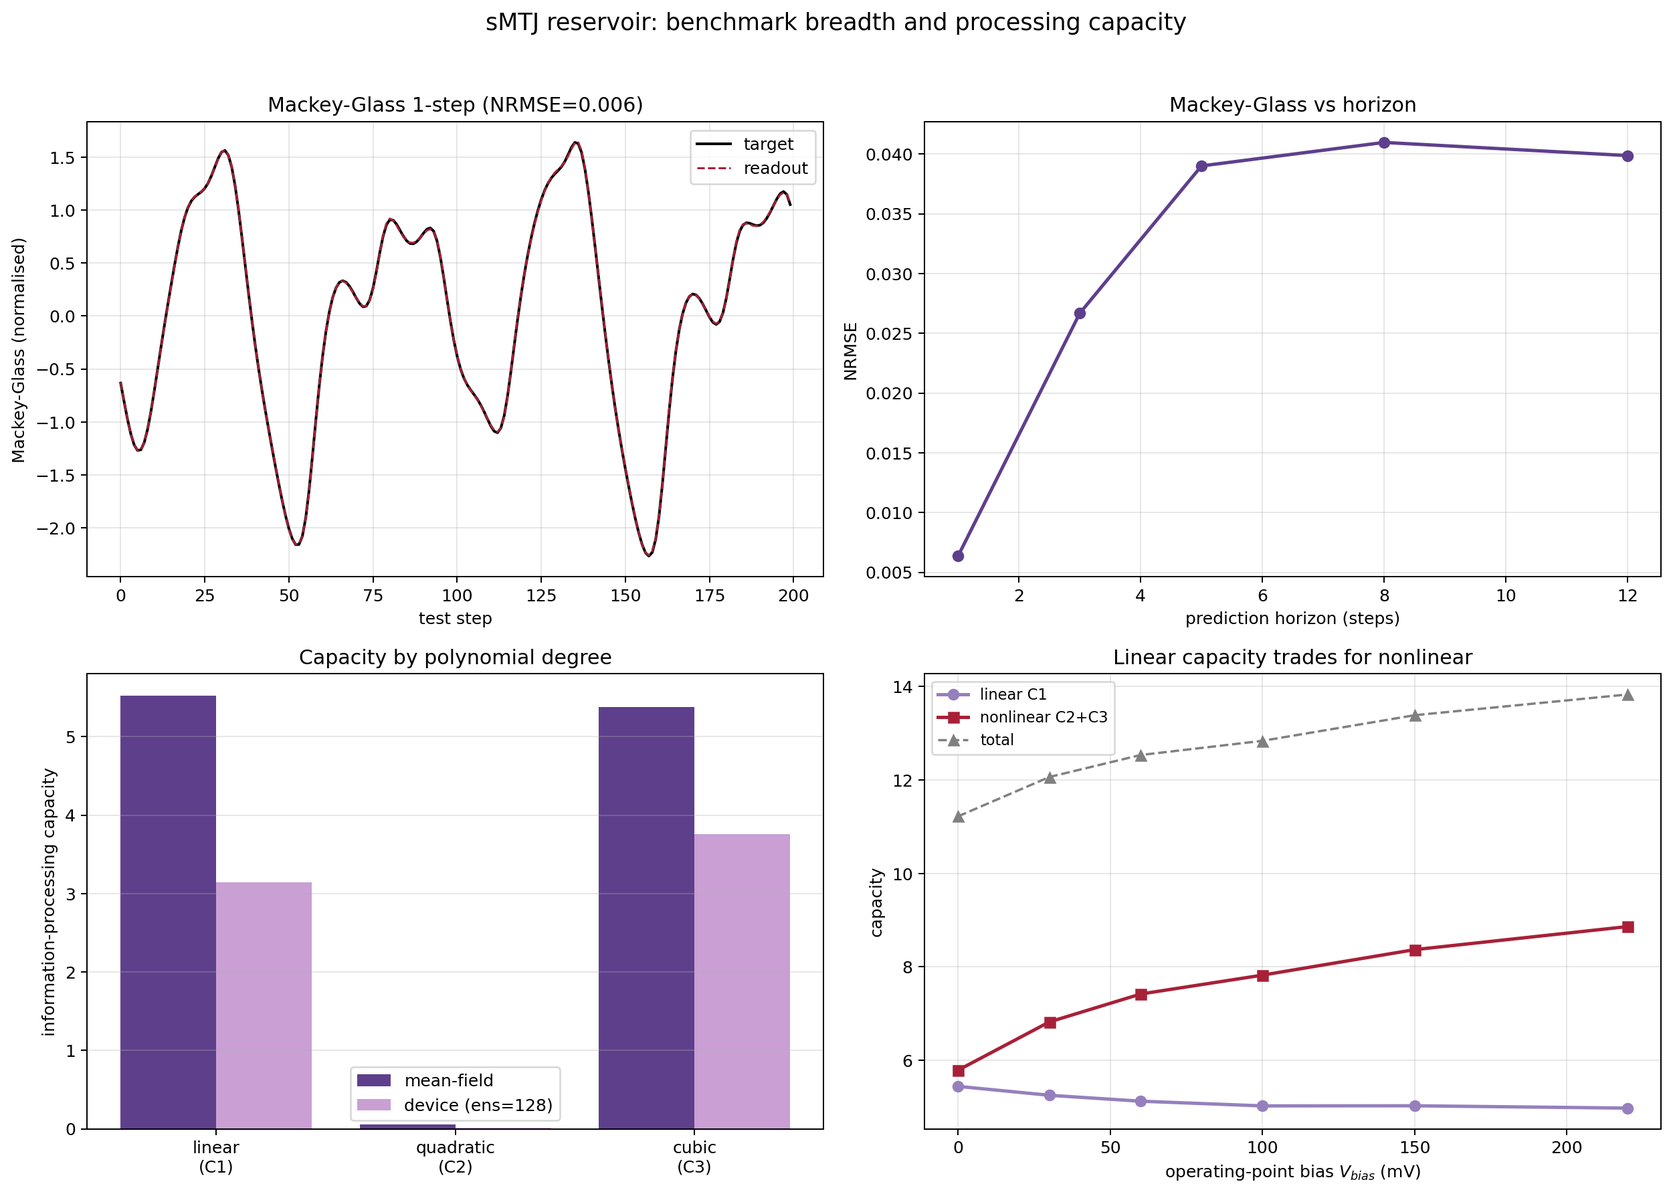
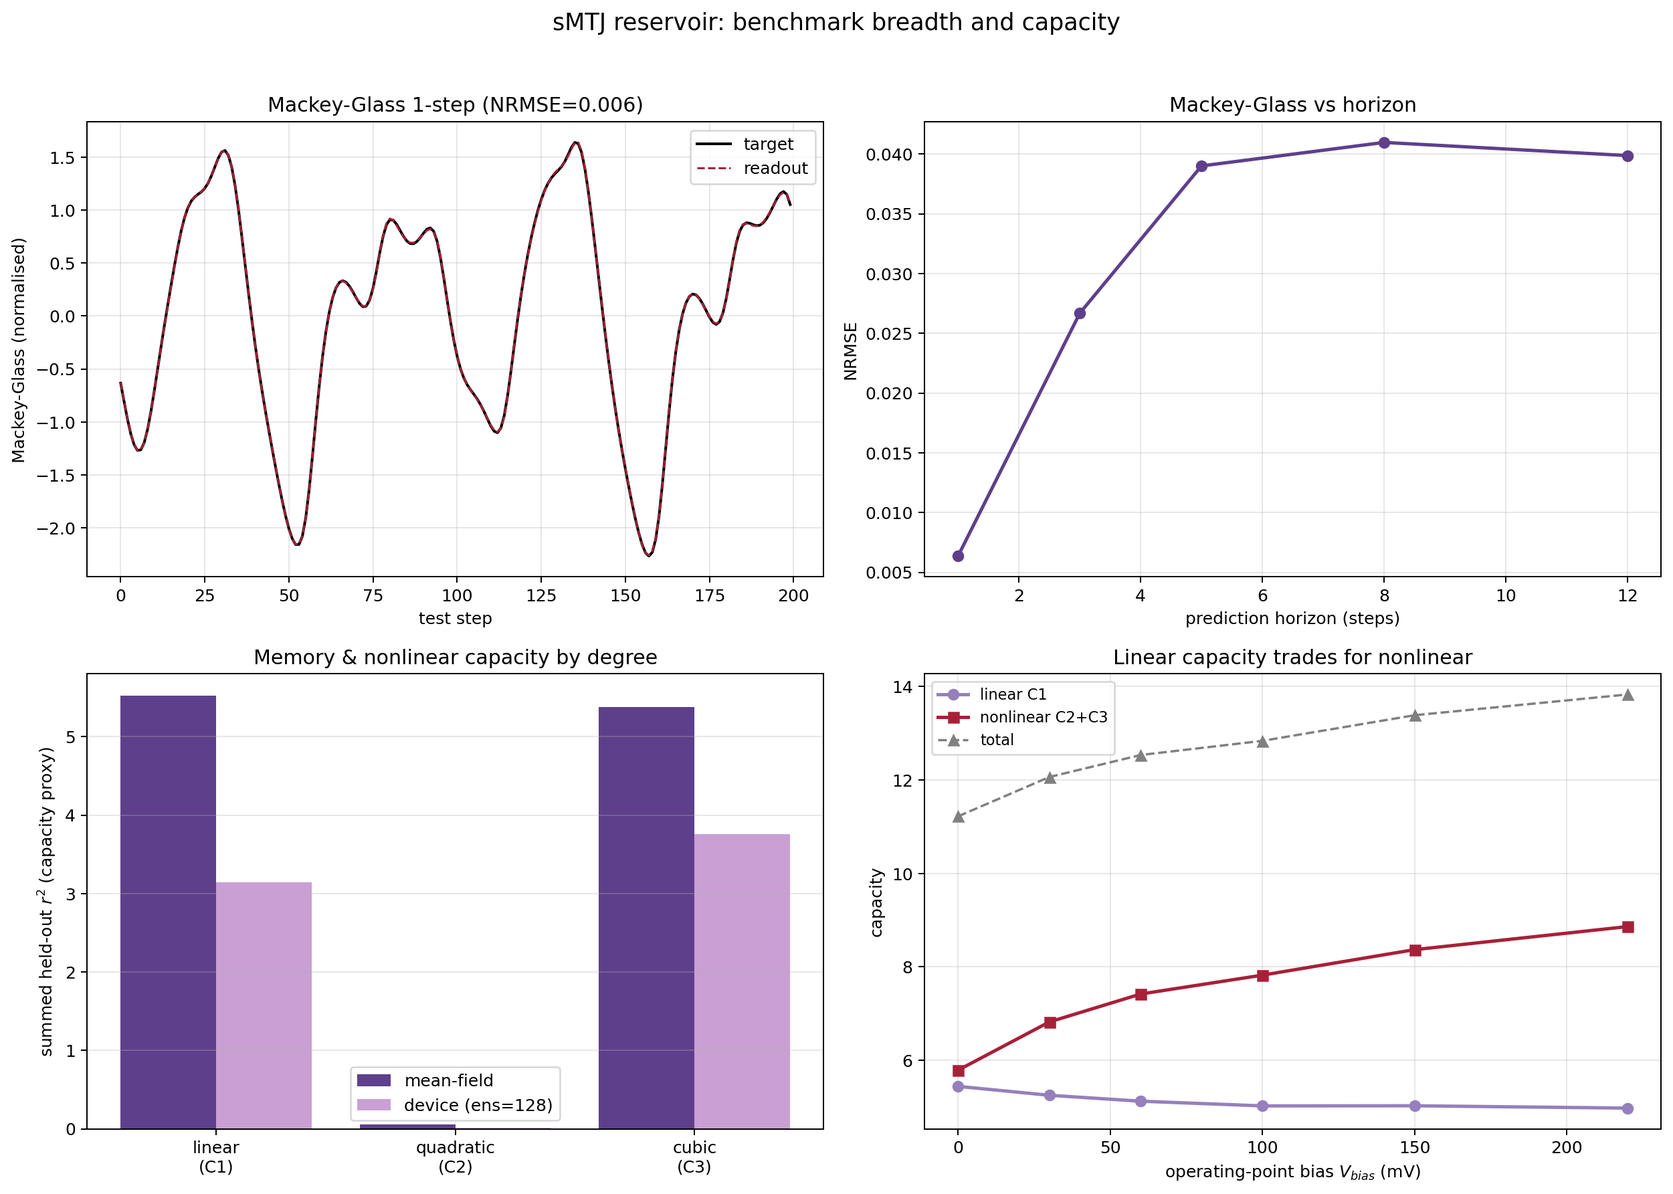
sim eval (②③): fix verified findings + ground 130nm/extraction in article (①⑤)
Multi-agent evaluation of smtj_pbnn_sim vs comparable-simulator norms
(NeuroSim/aihwkit/CrossSim + p-bit/RC literature; 6 dimensions, adversarial
verification). Overall: sound core, honest hygiene, contained gaps. Applied the
verified, low-risk fixes and reran/relabelled affected figures (style unchanged).

Fixes (errata §S ledger):
- DPM-01 (high): delta-mode variation recentred onto the calibrated operating
  point (V_th_nom,V_T_nom); Delta drives only the cell-to-cell spread. Removes
  the ~50 mV (843-vs-894) systematic bias at source. + regression tests.
- ARR-1: repair broken ir_drop tests (rows-only signature) + extracted-N256 pin.
- DPM-02: reconcile eta_c -> 5.62 (=44.6/7.94) for the 44.6 primary-reference
  defaults/configs; correct the docstring overclaim.
- ARR-2..5: make crossbar.bitline_current truly differential; correct
  overclaiming docstrings (differential / resistive-ladder / forward-path).
- RC-02: relabel exp18 capacity as a summed-r^2 proxy (not Dambre IPC);
  regenerate fig 5.6 and fix Ch5 §5.2/§5.5 + README to match.
- PPA-3/4: document the per-device-buffer + per-node-SAR readout (internally
  consistent); honest order-of-magnitude label on e_dev_read (no number change).
- test_ppa: write-dominance threshold updated for the grounded 48 fJ read.

Refuted by code/data, left unchanged: NN-01 (article already frames hardware-
aware training as gradient-aware, not forward-robust); NN-02 (T-sweeps in
[…]

Changed region(s): [[0.2807, 0.0, 0.7173, 0.0308], [0.1559, 0.5238, 0.3743, 0.5546], [0.0, 0.6471, 0.0312, 0.8319]]

diff --git a/src/smtj_pbnn_sim/device/variation.py b/src/smtj_pbnn_sim/device/variation.py
@@ -8,9 +8,13 @@ magnetization). The variation is therefore sampled as
 
     Delta_i ~ N( mu_Delta, (CV * mu_Delta)^2 ),
 
-and propagated to per-cell ``(V_th, V_T)`` via the NB->Sigmoid bridge.
-The runtime overhead of the propagation is amortised: the variation field
-is drawn once at array instantiation and held fixed.
+and propagated to per-cell ``(V_th, V_T)``. The drawn ``Delta`` sets the
+per-cell *spread*, but the field *mean* is pinned to the calibrated
+operating point ``(V_th_nom, V_T_nom)`` that the write-DAC centres on, not
+the bare Neel-Brown half-switch voltage (which sits ~50 mV lower); see the
+``delta`` branch below. The runtime overhead of the propagation is
+amortised: the variation field is drawn once at array instantiation and
+held fixed.
 
 Implementation notes
 --------------------
@@ -123,12 +127,26 @@ class VariationSampler:
             Delta_field = np.maximum(
                 _draw_rel(Delta_nom, self.cfg.cv_delta), 0.5
             )
+            # Delta is the dominant process channel; it sets the per-cell SPREAD
+            # of (V_th, V_T). The MEAN, however, is pinned to the calibrated
+            # operating point the write-DAC centres on (V_th_nom, V_T_nom), not
+            # the bare NB half-switch voltage: seating cells at the raw NB V_th
+            # would put every cell ~50 mV below the DAC centre (843 vs 894 mV for
+            # Device A) and impose a spurious systematic bias on the whole
+            # variation study (errata). So recentre the Delta-driven NB field:
             log_term = math.log(t_p / tau_0 / math.log(2.0))
-            V_th = (V_c0_nom * (1.0 - log_term / Delta_field)).astype(np.float32)
-            # Analytic NB slope at V = V_th: beta_NB = 2 ln(2) (Delta/V_c0).
-            beta_NB = 2.0 * math.log(2.0) * (Delta_field / V_c0_nom)
-            beta_s = eta_c * beta_NB
-            V_T = np.maximum(1.0 / beta_s, 1e-4).astype(np.float32)
+            V_th_NB = V_c0_nom * (1.0 - log_term / Delta_field)         # per-cell
+            V_th_NB_nom = V_c0_nom * (1.0 - log_term / Delta_nom)       # at E[Delta]
+            V_th = (V_th_nom + (V_th_NB - V_th_NB_nom)).astype(np.float32)
+            # NB slope beta_s ~ Delta/V_c0, so V_T = 1/beta_s ~ 1/Delta. Carry the
+            # same Delta-driven spread while pinning E[V_T] = V_T_nom:
+            #     V_T = V_T_nom * (Delta_nom / Delta_field).
+            # eta_c and V_c0 cancel in this ratio, so the recentred field no longer
+            # depends on the C2C-narrowing constant (eta_c kept only for signature
+            # back-compatibility; it does not affect the result here).
+            V_T = np.maximum(
+                V_T_nom * (Delta_nom / Delta_field), 1e-4
+            ).astype(np.float32)
         elif self.cfg.mode == "sigmoid_direct":
             V_th = _draw_rel(V_th_nom, self.cfg.sigma_V_th_rel)
             V_T = np.maximum(_draw_rel(V_T_nom, self.cfg.sigma_V_T_rel), 1e-4)

diff --git a/tests/test_variation.py b/tests/test_variation.py
@@ -1,10 +1,14 @@
 """Tests for :mod:`smtj_pbnn_sim.device.variation`.
 
 The wafer-level statistics produced by the variation sampler must match
-the joint model of Chapter 2.3:
+the joint model of Chapter 2.3. In ``delta`` mode the Delta draw sets the
+per-cell *spread* but the *mean* is recentred on the calibrated operating
+point the write-DAC uses (not the bare Neel-Brown half-switch voltage):
 
-    mean(beta_s_per_cell)  ~  eta_c * beta_NB_analytic
-    CV(V_T_per_cell)        ~  CV(Delta) / 1   (since beta_NB ~ Delta)
+    mean(V_th_per_cell)    ~  V_th_nom        (recentred; not the 843 mV NB value)
+    mean(V_T_per_cell)     ~  V_T_nom
+    mean(beta_s_per_cell)  ~  1 / V_T_nom
+    CV(V_T_per_cell)        ~  CV(Delta)       (since beta_s ~ Delta)
 
 at the PDK baseline CV(Delta) = 7.7 %.
 """
@@ -26,20 +30,39 @@ T_P   = 0.75e-9
 ETA_C = 5.34
 
 
-def test_delta_mode_mean_beta_matches_joint_prediction():
-    """20 000-sample mean beta_s should match eta_c * 2 ln(2) * Delta / V_c0."""
+def test_delta_mode_recenters_on_calibrated_operating_point():
+    """delta-mode must recentre the field MEAN on (V_th_nom, V_T_nom), the
+    operating point the write-DAC uses -- not the bare NB half-switch voltage
+    (843 mV for Device A), which would impose a ~50 mV systematic bias."""
+    V_th_nom, V_T_nom = 0.894, 1.0 / 44.6
+    cfg = VariationConfig(mode="delta", cv_delta=0.077, seed=42)
+    fields = VariationSampler(cfg).sample(
+        shape=(20_000,),
+        V_th_nom=V_th_nom, V_T_nom=V_T_nom,
+        R_P_nom=4.9e3, TMR_nom=1.0,
+        Delta_nom=DELTA, V_c0_nom=V_C0, tau_0=TAU_0, t_p=T_P, eta_c=ETA_C,
+    )
+    # Mean V_th must sit at the calibrated centre, not the 843 mV NB value.
+    assert abs(float(fields.V_th.mean()) - V_th_nom) < 2e-3
+    assert float(fields.V_th.mean()) > 0.88        # not the 843 mV NB centre
+    assert abs(float(fields.V_T.mean()) - V_T_nom) / V_T_nom < 0.02
+
+
+def test_delta_mode_mean_beta_matches_recentred_slope():
+    """20 000-sample mean beta_s should match the recentred 1 / V_T_nom."""
+    V_T_nom = 1.0 / 44.6
     cfg = VariationConfig(mode="delta", cv_delta=0.077, seed=42)
     sampler = VariationSampler(cfg)
     fields = sampler.sample(
         shape=(20_000,),
-        V_th_nom=0.894, V_T_nom=1.0 / 44.6,
+        V_th_nom=0.894, V_T_nom=V_T_nom,
         R_P_nom=4.9e3, TMR_nom=1.0,
         Delta_nom=DELTA, V_c0_nom=V_C0,
         tau_0=TAU_0, t_p=T_P, eta_c=ETA_C,
     )
     beta_per_cell = 1.0 / fields.V_T
-    expected = ETA_C * 2.0 * math.log(2.0) * (DELTA / V_C0)
-    # Within 1% of the analytic mean (statistical noise at N=20k).
+    expected = 1.0 / V_T_nom
+    # Within 1% of the recentred mean (statistical noise at N=20k).
     assert abs(beta_per_cell.mean() - expected) / expected < 0.01
 
 

diff --git a/experiments/18_rc_benchmarks.py b/experiments/18_rc_benchmarks.py
@@ -6,8 +6,10 @@ substrate is a generic temporal processor rather than a single-task construction
 
   (a) Mackey-Glass chaotic prediction -- target vs readout trace
   (b) Mackey-Glass NRMSE vs prediction horizon
-  (c) information-processing-capacity decomposition (linear / quadratic / cubic),
-      mean-field vs real device
+  (c) memory & nonlinear-capacity decomposition (linear / quadratic / cubic),
+      mean-field vs real device -- summed held-out r^2 by polynomial degree
+      (a practical capacity proxy, not the orthonormalised Dambre IPC; see
+      ``capacities`` below)
   (d) total capacity vs operating-point bias -- linear capacity trades for
       nonlinear capacity, total roughly conserved
 
@@ -55,7 +57,16 @@ def _r2(X, y, *, alpha=1e-4, split=0.6):
 
 
 def capacities(X, u, *, k_lin=20, k_nl=6):
-    """Practical IPC decomposition: summed r^2 by polynomial degree."""
+    """Practical capacity proxy: summed held-out r^2 by polynomial degree.
+
+    This sums held-out r^2 over RAW delayed monomials (u[t-k], u[t-k1]u[t-k2],
+    ...). It is a convenient, reproducible measure of how much linear and
+    nonlinear memory the reservoir exposes, but it is NOT the Dambre et al.
+    information-processing capacity (IPC): the raw monomials are non-orthogonal,
+    so the per-degree sums double-count shared variance and are not bounded by
+    the reservoir rank the way orthonormalised-Legendre IPC is. Reported as a
+    comparative proxy (mean-field vs device, bias sweep), not an absolute IPC.
+    """
     c1 = sum(_r2(X[k:], u[:-k] if k else u) for k in range(1, k_lin + 1))
     c2 = 0.0
     for k1, k2 in combinations_with_replacement(range(1, k_nl + 1), 2):
@@ -136,8 +147,8 @@ def main() -> None:
     ax[1, 0].bar(xpos + 0.2, c_st, width=0.4, color=LILAC, label="device (ens=128)")
     ax[1, 0].set_xticks(xpos)
     ax[1, 0].set_xticklabels(deg)
-    ax[1, 0].set_ylabel("information-processing capacity")
-    ax[1, 0].set_title("Capacity by polynomial degree")
+    ax[1, 0].set_ylabel(r"summed held-out $r^2$ (capacity proxy)")
+    ax[1, 0].set_title("Memory & nonlinear capacity by degree")
     ax[1, 0].legend(fontsize=10)
     ax[1, 0].grid(alpha=0.3, axis="y")
 
@@ -151,7 +162,7 @@ def main() -> None:
     ax[1, 1].legend(fontsize=9)
     ax[1, 1].grid(alpha=0.3)
 
-    fig.suptitle("sMTJ reservoir: benchmark breadth and processing capacity",
+    fig.suptitle("sMTJ reservoir: benchmark breadth and capacity",
                  fontsize=14, y=0.99)
     fig.tight_layout(rect=[0, 0, 1, 0.97])
     out = REPO / "figures" / "18_rc_benchmarks.png"

diff --git a/src/smtj_pbnn_sim/ppa/reservoir_energy.py b/src/smtj_pbnn_sim/ppa/reservoir_energy.py
@@ -12,7 +12,8 @@ physical sMTJs, biased for a step of duration ``dt``:
     E_step =  E_drive + E_dac + E_sense + E_readout
       E_drive   = (V_drive^2 / R_dev) * dt * (n_nodes * ensemble)   # Ohmic bias
       E_dac     = e_dac_step * n_nodes                              # per-node drive set
-      E_sense   = e_dev_read * n_nodes * ensemble                   # light per-device analog read
+      E_sense   = e_dev_read * n_nodes * ensemble                   # per-device readout buffer onto
+                                                                    #   the node's shared summing line
       E_readout = e_int8_mac * n_nodes * n_outputs                  # trained linear layer
                 + adc_nodes_frac * n_nodes * (b*e_adc_comp + 2^b*e_adc_capdac0)  # SAR ADC
 
@@ -49,9 +50,15 @@ class ReservoirHW:
     n_inputs: int = 1
     V_drive: float = 0.05          # typical bias across the MTJ during a step [V]
     R_dev: float = 4900.0          # MTJ read-path resistance [ohm] (R_P)
-    e_dev_read: float = 5.0e-15    # light per-device analog state read [J] (order-of-magnitude;
-                                   # NOT the column StrongARM decision -- that is billed once per
-                                   # ADC conversion below via e_adc_comp, column-shared)
+    e_dev_read: float = 5.0e-15    # per-device analog readout buffer [J] -- a source-follower /
+                                   # sample stage that presents each physical sMTJ's state-current
+                                   # onto the node's shared summing line. Order-of-magnitude
+                                   # placeholder (awaits sky130 extraction, like e_dac_step), NOT
+                                   # the StrongARM decision: digitisation is billed once per logical
+                                   # node by the per-node SAR ADC below (e_adc_comp). The per-device
+                                   # buffer + per-node converter split is the ensemble-analog-sum
+                                   # readout and is internally consistent (buffers are per device,
+                                   # the ADC is per node after the analog sum).
     # --- analog-to-digital readout (grounded in the sky130 StrongARM extraction) -------#
     # The node states must be digitised before the trained linear layer; the earlier model
     # omitted this. A successive-approximation ADC costs b comparisons plus a binary-weighted

diff --git a/src/smtj_pbnn_sim/array/crossbar.py b/src/smtj_pbnn_sim/array/crossbar.py
@@ -6,14 +6,19 @@ inner product reduces to
     sum_j w_j x_j  =  2 * popcount(w XNOR x) - N,
 
 which is the standard XNOR-popcount kernel of binary neural network CIM
-macros (e.g., Pham et al. STT-BNN). At the analog level the same operation
-manifests as a bit-line current
+macros (e.g., Pham et al. STT-BNN). At the analog level the signed product is
+realised *differentially* -- a cell and its complement drive two bit-lines and
+the readout takes the difference, so the state-independent common-mode current
+cancels and only the signed term survives:
 
-    I_BL  ~  sum_j G_j(state) * V_read(x_j),
+    I_BL  =  sum_j [ G(+w_j) - G(-w_j) ] * V_read(x_j)  =  2 G_diff * sum_j x_j w_j.
 
-where G_j depends on the cell's magnetic state. Both views are exposed here:
-:func:`xnor_popcount` for the algorithmic equivalent, :func:`bitline_current`
-for the analog-level current sum used by the PPA layer.
+Both views are exposed here: :func:`xnor_popcount` for the algorithmic
+equivalent and :func:`bitline_current` for the differential analog current.
+
+These are reference primitives illustrating the CIM mapping; the trained
+network forward path uses the calibrated probabilistic kernels in
+:mod:`smtj_pbnn_sim.nn`, not this module.
 """
 
 from __future__ import annotations
@@ -39,7 +44,12 @@ def xnor_popcount(x: Tensor, w: Tensor) -> Tensor:
 
 
 def bitline_current(x: Tensor, w: Tensor, mtj: MTJResistance) -> Tensor:
-    """Analog bit-line current sum.
+    """Differential analog bit-line current.
+
+    Each cell ``w`` and its complement ``-w`` drive a positive and a negative
+    bit-line; the readout takes the difference. The common-mode term
+    ``G_mid * sum_j x_j`` (state-independent) cancels exactly, leaving the
+    signed popcount current ``2 * G_diff * sum_j x_j w_j``.
 
     Args:
         x: Input voltages, shape (..., N), nominally x_j * V_read with
@@ -48,7 +58,9 @@ def bitline_current(x: Tensor, w: Tensor, mtj: MTJResistance) -> Tensor:
         mtj: Resistance description.
 
     Returns:
-        Bit-line current tensor of shape (..., M).
+        Differential bit-line current tensor of shape (..., M).
     """
-    G = conductance_from_state(w, mtj)
-    return torch.nn.functional.linear(x, G)
+    G_pos = conductance_from_state(w, mtj)
+    G_neg = conductance_from_state(-w, mtj)
+    linear = torch.nn.functional.linear
+    return linear(x, G_pos) - linear(x, G_neg)

diff --git a/tests/test_array_pure.py b/tests/test_array_pure.py
@@ -19,29 +19,36 @@ from smtj_pbnn_sim.array.periphery import DACModel, CounterModel
 
 def test_ir_drop_zero_wire_resistance():
     """No wire resistance -> no droop."""
-    assert estimate_ir_drop(rows=256, cols=256,
-                            r_wire_per_cell=0.0, r_cell=5e3) == 0.0
+    assert estimate_ir_drop(rows=256, r_wire_per_cell=0.0, r_cell=5e3) == 0.0
 
 
-def test_ir_drop_monotone_in_array_size():
-    """Wider array -> more droop."""
-    drops = [estimate_ir_drop(256, c, r_wire_per_cell=0.5, r_cell=5e3)
-             for c in (64, 128, 256, 512)]
+def test_ir_drop_monotone_in_rows():
+    """Taller column (the write line runs down rows) -> more droop."""
+    drops = [estimate_ir_drop(n, r_wire_per_cell=0.5, r_cell=5e3)
+             for n in (64, 128, 256, 512)]
     for a, b in zip(drops, drops[1:]):
         assert a < b
 
 
 def test_ir_drop_in_unit_interval():
     """Result should always be in [0, 1)."""
-    d = estimate_ir_drop(256, 256, r_wire_per_cell=2.0, r_cell=5e3)
+    d = estimate_ir_drop(256, r_wire_per_cell=2.0, r_cell=5e3)
     assert 0.0 <= d < 1.0
 
 
 def test_ir_drop_negligible_for_chapter_2_3_geometry():
-    """At the 256x256 / R_P~5k regime of Chapter 2.3, IR drop should be <5%."""
+    """At the 256-row / R_P~5k read regime of Chapter 2.3, IR drop should be <5%."""
     # r_wire_per_cell ~ 0.1 ohm at 28 nm pitch (order-of-magnitude)
-    d = estimate_ir_drop(256, 256, r_wire_per_cell=0.1, r_cell=4.9e3)
+    d = estimate_ir_drop(256, r_wire_per_cell=0.1, r_cell=4.9e3)
     assert d < 0.05
+
+
+def test_ir_drop_matches_extracted_writeline_at_n256():
+    """Pin the sky130-extracted write-line operating point: round-trip met2
+    R_WIRE_PER_CELL_MET2 over 256 rows is ~16.5% of the 776 ohm SOT branch."""
+    from smtj_pbnn_sim.array.ir_drop import R_WIRE_PER_CELL_MET2, R_SOT
+    d = estimate_ir_drop(256, r_wire_per_cell=R_WIRE_PER_CELL_MET2, r_cell=R_SOT)
+    assert 0.14 < d < 0.18
 
 
 # -----------------------------------------------------------------------------#

diff --git a/src/smtj_pbnn_sim/array/ir_drop.py b/src/smtj_pbnn_sim/array/ir_drop.py
@@ -1,4 +1,4 @@
-"""Write-line IR-drop model (sky130-grounded resistive ladder).
+"""Write-line IR-drop model (sky130-grounded, first-order droop).
 
 Metal write-line resistance droops the delivered write voltage along a column: a cell at row ``r``
 sees ``V_target - I_wr * R_par(r)``, where ``R_par(r)`` is the cumulative line resistance to that
@@ -9,7 +9,9 @@ write-line resistance of ~128 ohm at N=256 on met2 / 1 um width -- 16.5% of the 
 about 148 mV -- which pulls the remote write point below the calibrated 0.896 V threshold and shifts
 the switching-probability Sigmoid, raising the remote write-error rate.
 
-This module provides (i) the grounded resistive-ladder solver, (ii) the per-row delivered-voltage and
+This module provides (i) the first-order droop estimate (a single write current ``I_wr=V_target/R_SOT``
+flowing through the cumulative line resistance to each row -- a conservative droop that ignores the
+distributed current re-injection of a full ladder solve), (ii) the per-row delivered-voltage and
 switching-probability profile, and (iii) the IR-aware per-row write *pre-distortion* that restores the
 target voltage at every row. It is exercised by ``experiments/20_write_ir_drop.py`` and can be applied
 to a per-cell probability map via :func:`apply_write_ir`.

diff --git a/tests/test_ppa.py b/tests/test_ppa.py
@@ -26,10 +26,15 @@ def test_smtj_write_energy_property_matches_chapter():
 
 
 def test_per_mac_energy_dominated_by_smtj_write():
-    """At the chapter operating point, sMTJ write should dominate per-MAC energy."""
+    """At the chapter operating point, the stochastic SOT write should dominate
+    per-MAC energy. The fraction is ~0.94 (not >0.99) because the read term is
+    now grounded in the extracted sky130 StrongARM (48 fJ) rather than the old
+    5 fJ stub -- a visible ~6% secondary term, but the write still dominates."""
     tech = default_28nm()
     e = per_mac_energy(tech)
-    assert tech.e_smtj_write / e > 0.95
+    assert tech.e_smtj_write / e > 0.9
+    # the grounded read is the largest non-write term but stays well below write
+    assert tech.e_smtj_read < 0.1 * tech.e_smtj_write
 
 
 def test_layer_energy_scales_linearly_in_T():

diff --git a/src/smtj_pbnn_sim/device/arrhenius.py b/src/smtj_pbnn_sim/device/arrhenius.py
@@ -26,9 +26,11 @@ implemented and exposed:
 
        beta_s_predicted = eta_c * beta_s_NB_analytic,
 
-   where eta_c ~ 5.34 (Chapter 2.3, primary reference) accounts for the
-   physics not contained in the single-domain Gumbel distribution of NB
-   (sub-domain co-switching, weak voltage-dependent attempt frequency, ...).
+   where eta_c accounts for the physics not contained in the single-domain
+   Gumbel distribution of NB (sub-domain co-switching, weak voltage-dependent
+   attempt frequency, ...). It is fixed by matching the analytic
+   beta_NB = 7.94 V^-1 to the measured operating-point slope beta_s = 44.6 V^-1
+   (Chapter 2.3, Device A P->AP, 0.75 ns), giving eta_c = 44.6/7.94 = 5.62.
    This bridge is what allows the Sigmoid model to inherit the V_th(t_w)
    scaling of NB while preserving the measured slope.
 

diff --git a/src/smtj_pbnn_sim/scripts/_mnist_eval.py b/src/smtj_pbnn_sim/scripts/_mnist_eval.py
@@ -25,7 +25,7 @@ def _device_params_from_cfg(dev_cfg: dict) -> DeviceLayerParams:
         R_SOT_nom=float(res.get("R_SOT", 776.0)),
         Delta_nom=float(nb.get("Delta_nom", 4.91)),
         V_c0_nom=float(nb.get("V_c0_nom", 0.857)),
-        eta_c=float(dev_cfg.get("eta_c", 5.34)),
+        eta_c=float(dev_cfg.get("eta_c", 5.62)),
         tau_0=float(nb.get("tau_0", 1.0e-9)),
         t_p=float(op.get("t_p", 0.75e-9)),
     )

diff --git a/experiments/05a_cifar10_pbnn_cnn.py b/experiments/05a_cifar10_pbnn_cnn.py
@@ -412,7 +412,7 @@ def main() -> None:
         V_th_nom=0.894, V_T_nom=1.0 / 44.6,
         R_P_nom=4.9e3, TMR_nom=1.0, R_SOT_nom=776.0,
         Delta_nom=4.91, V_c0_nom=0.857,
-        eta_c=5.34, tau_0=1.0e-9, t_p=0.75e-9,
+        eta_c=5.62, tau_0=1.0e-9, t_p=0.75e-9,
     )
     vc = VariationConfig(mode="delta", cv_delta=0.077,
                          sigma_RP_rel=0.05, sigma_TMR_rel=0.10, seed=42)

diff --git a/experiments/05a_fashion_mnist_pbnn_cnn.py b/experiments/05a_fashion_mnist_pbnn_cnn.py
@@ -363,7 +363,7 @@ def main() -> None:
         V_th_nom=0.894, V_T_nom=1.0 / 44.6,
         R_P_nom=4.9e3, TMR_nom=1.0, R_SOT_nom=776.0,
         Delta_nom=4.91, V_c0_nom=0.857,
-        eta_c=5.34, tau_0=1.0e-9, t_p=0.75e-9,
+        eta_c=5.62, tau_0=1.0e-9, t_p=0.75e-9,
     )
     vc = VariationConfig(mode="delta", cv_delta=0.077,
                          sigma_RP_rel=0.05, sigma_TMR_rel=0.10, seed=42)
